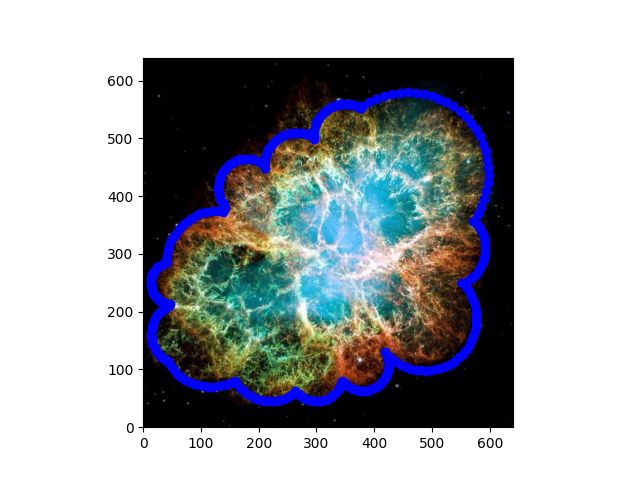
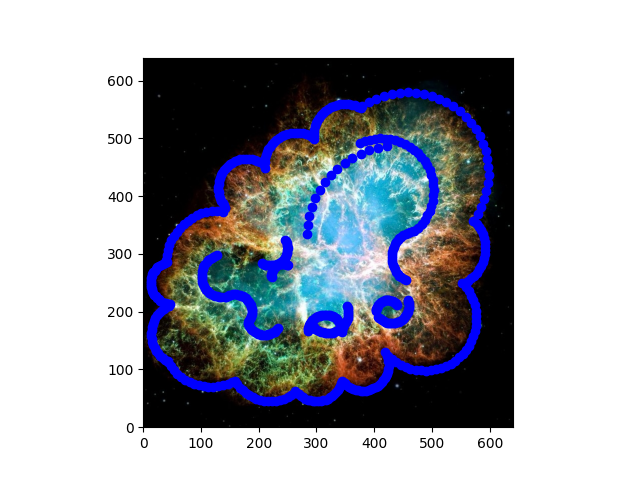
нужно переделать

Changed region(s): [[0.4062, 0.2812, 0.6875, 0.7188], [0.2812, 0.5, 0.4375, 0.7188]]

diff --git a/my_project_stage_3/my_nebula.py b/my_project_stage_3/my_nebula.py
@@ -1,9 +1,9 @@
 import numpy as np
 from scipy import interpolate
 import matplotlib.pyplot as plt
+import shapely.geometry as geom
 
-img = plt.imread("my_project_stage_2/crab_nebula.jpg")
-
+img = plt.imread("my_project_stage_3/crab_nebula.jpg")
 fig, ax = plt.subplots()
 ax.imshow(img, extent=[0, 640, 0, 640])
 
@@ -15,7 +15,6 @@ def circle(R, x0, y0, starst, stop, step):
 
 x = np.array([])
 y = np.array([])
-
 
 x = np.append(x, [142, 139])
 y = np.append(y, [380, 373])
@@ -77,7 +76,23 @@ y = np.append(y, coords[1])
 spline_coords, figure_spline_part = interpolate.splprep([x, y], s=0)
 spline_curve = interpolate.splev(np.linspace(0, 1, 100), spline_coords)
 
-plt.plot(x, y, 'bo')
 
-plt.savefig('slide_3_spline_crab_nebula.png')
-plt.show()
+curve_coords = []
+for i in range(len(spline_curve[0])):
+    curve_coords.append([spline_curve[0][i], spline_curve[1][i]])
+
+polygon = geom.Polygon(curve_coords)
+points_numper_per_side = 100
+x_pictures_limits = [0, 640]
+y_pictures_limits = [0, 640]
+
+for x_point_coord in np.linspace(*x_pictures_limits, points_numper_per_side):
+    for y_point_coord in np.linspace(*y_pictures_limits, points_numper_per_side):
+        p = geom.Point(x_point_coord, y_point_coord)
+        if p.within(polygon):
+            plt.plot(x_point_coord, y_point_coord, 'go', ms=0.7)
+
+plt.plot(x, y, 'bo')
+plt.plot(spline_curve[0], spline_curve[1], 'g')
+
+plt.savefig('crab_nebula.png')

diff --git a/my_project_stage_3/my_home_slide_1_point_in_poligon.py b/my_project_stage_3/my_home_slide_1_point_in_poligon.py
@@ -3,13 +3,12 @@ from scipy import interpolate
 import matplotlib.pyplot as plt
 import shapely.geometry as geom
 
-phi = np.linspace(0, 2*np.pi, 40)
-r = 0.5 + np.cos(phi)
-x = r * np.cos(phi)
-y = r * np.sin(phi)
+fig, ax = plt.subplots()
 
 x = np.array([1, 1, 10, 10, 1])
 y = np.array([1, 5, 5, 1, 1])
+ax.plot(x, y, '-', linewidth=2, color='k')
+
 
 spline_coords, figure_spline_part = interpolate.splprep([x, y], s=0)
 spline_curve = interpolate.splev(figure_spline_part, spline_coords)
@@ -20,8 +19,8 @@ for i in range(len(spline_curve[0])):
 
 polygon = geom.Polygon(curve_coords)
 points_numper_per_side = 300
-x_pictures_limits = [-1, 11]
-y_pictures_limits = [-1, 6]
+x_pictures_limits = [-0.5, 2]
+y_pictures_limits = [-1, 1]
 
 for x_point_coord in np.linspace(*x_pictures_limits, points_numper_per_side):
     for y_point_coord in np.linspace(*y_pictures_limits, points_numper_per_side):
@@ -33,4 +32,4 @@ plt.plot(x, y, 'bo')
 plt.plot(spline_curve[0], spline_curve[1], 'g')
 
 plt.axis('equal')
-plt.savefig('slide_1_point_in_poligon.png')
+plt.savefig('home_slide_1_point_in_poligon.png')
